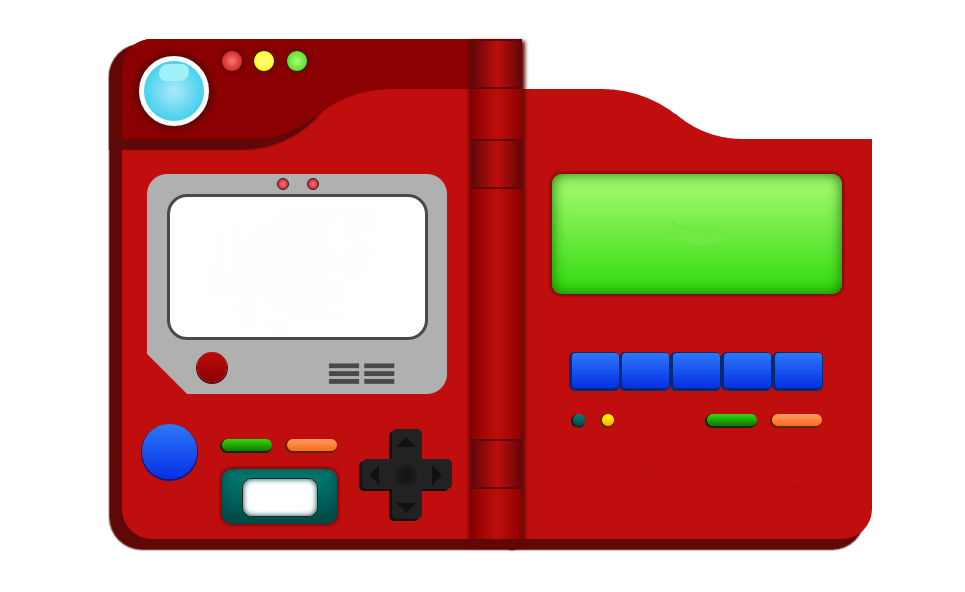
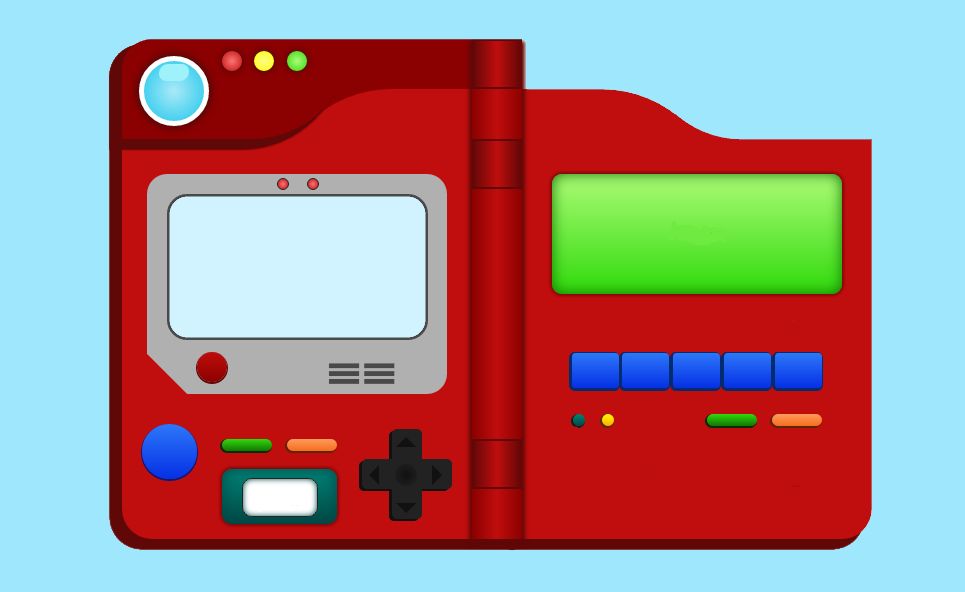
feat: terminei a Pokédex.

diff --git a/Pokedex/script.js b/Pokedex/script.js
@@ -3,8 +3,16 @@ const BASEURLIMG = "https://raw.githubusercontent.com/PokeAPI/sprites/master/spr
 
 const pokemonName = document.querySelector('.pokemon_name')
 const pokemonNumber = document.querySelector('.pokemon_number')
-//const pokemonImg = document.querySelector('.pokemon_img')
+const pokemonImg = document.querySelector('.pokemon_img')
 
+const form = document.querySelector('.form')
+const input = document.querySelector('.input_search')
+const buttonVoltar = document.querySelector('.voltar')
+const buttonProximo = document.querySelector('.proximo')
+
+let searchPokemon = 1
+
+//Procura Pokémon na API
 const fetchPokemon = async (pokemon) => {
 //'await' é apenas para funções assíncronas, e o 'async' define a função como tal.
     const APIResponse = await fetch(`https://pokeapi.co/api/v2/pokemon/${pokemon}`);
@@ -15,13 +23,47 @@ const fetchPokemon = async (pokemon) => {
     }
   }
 
-//Revisar: nome do Pokemon não está aparecendo, não sei o que está errado.
+//Mostra os dados encontrados do Pokémon
 const showPokemon = async (pokemon) => {
+
+    pokemonName.innerHTML = 'Procurando...'
+    pokemonNumber.innerHTML = ''
 
     const data = await fetchPokemon(pokemon);
 
-    pokemonName.innerHTML = data.name
-    pokemonNumber.innerHTML = data.id
-    //pokemonImg.src = data['sprites']['versions']['generation']
+    if (data) {
+      pokemonImg.style.display = 'block'
+      pokemonName.innerHTML = data.name
+      pokemonNumber.innerHTML = data.id
+      pokemonImg.src = data['sprites']['versions']['generation-v']['black-white']
+      ['animated']['front_default']
+      input.value = ''
+      searchPokemon = data.id
+    } else {
+        pokemonImg.style.display = 'none'
+        pokemonName.innerHTML = 'Não encontrado'
+        pokemonNumber.innerHTML = ''
+        input.value = ''
+    }
 }
 
+//Pega os dados inseridos no formulario para fazer a procura do Pokémon
+form.addEventListener('submit', (event) => {
+  event.preventDefault()
+  showPokemon(input.value.toLowerCase())
+})
+
+buttonVoltar.addEventListener('click', () => {
+  if (searchPokemon > 1){
+    searchPokemon -= 1
+    showPokemon(searchPokemon)
+  }
+  
+})
+
+buttonProximo.addEventListener('click', () => {
+  searchPokemon += 1
+  showPokemon(searchPokemon)
+})
+
+showPokemon(searchPokemon)

diff --git a/Pokedex/style.css b/Pokedex/style.css
@@ -9,7 +9,8 @@
 
 body{
     text-align: center;
-    background: linear-gradient(to bottom, #9fe7fd, #f1fdff);
+    /*background: linear-gradient(to bottom, #9fe7fd, #f1fdff);*/
+    background: #9fe7fd;
     min-height: 100vh;
 }
 
@@ -28,8 +29,8 @@ main{
 
 .pokemon_img{
     position: absolute;
-    bottom: 42%;
-    left: 32%;
+    bottom: 49%;
+    left: 33%;
     transform: translate(-63%, 20%);
     height: 18%;
 }
@@ -37,10 +38,10 @@ main{
 .pokemon_data{
     position: absolute;
     font-weight: 600;
-    color: rgb(15, 14, 14);
-    top: 37%;
+    color: rgb(39, 36, 36);
+    top: 37.5%;
     right: 22%;
-    font-size: clamp(8px, 5vw, 25px);
+    font-size: clamp(8px, 5vw, 19px);
 }
 
 .pokemon_name{

diff --git a/Pokedex/index.html b/Pokedex/index.html
@@ -15,7 +15,7 @@
             <img src="#" alt="pokemon" class="pokemon_img">
 
             <h1 class="pokemon_data">
-                <span class="pokemon_number"></span> -
+                <span class="pokemon_number"></span> :
                 <span class="pokemon_name"></span>
             </h1>
 
@@ -23,7 +23,7 @@
                 <input 
                     type="search"
                     class="input_search"
-                    placeholder="Nome ou número do Pokemon"
+                    placeholder="Nome ou número do Pokémon"
                     required>
             </form>
 
